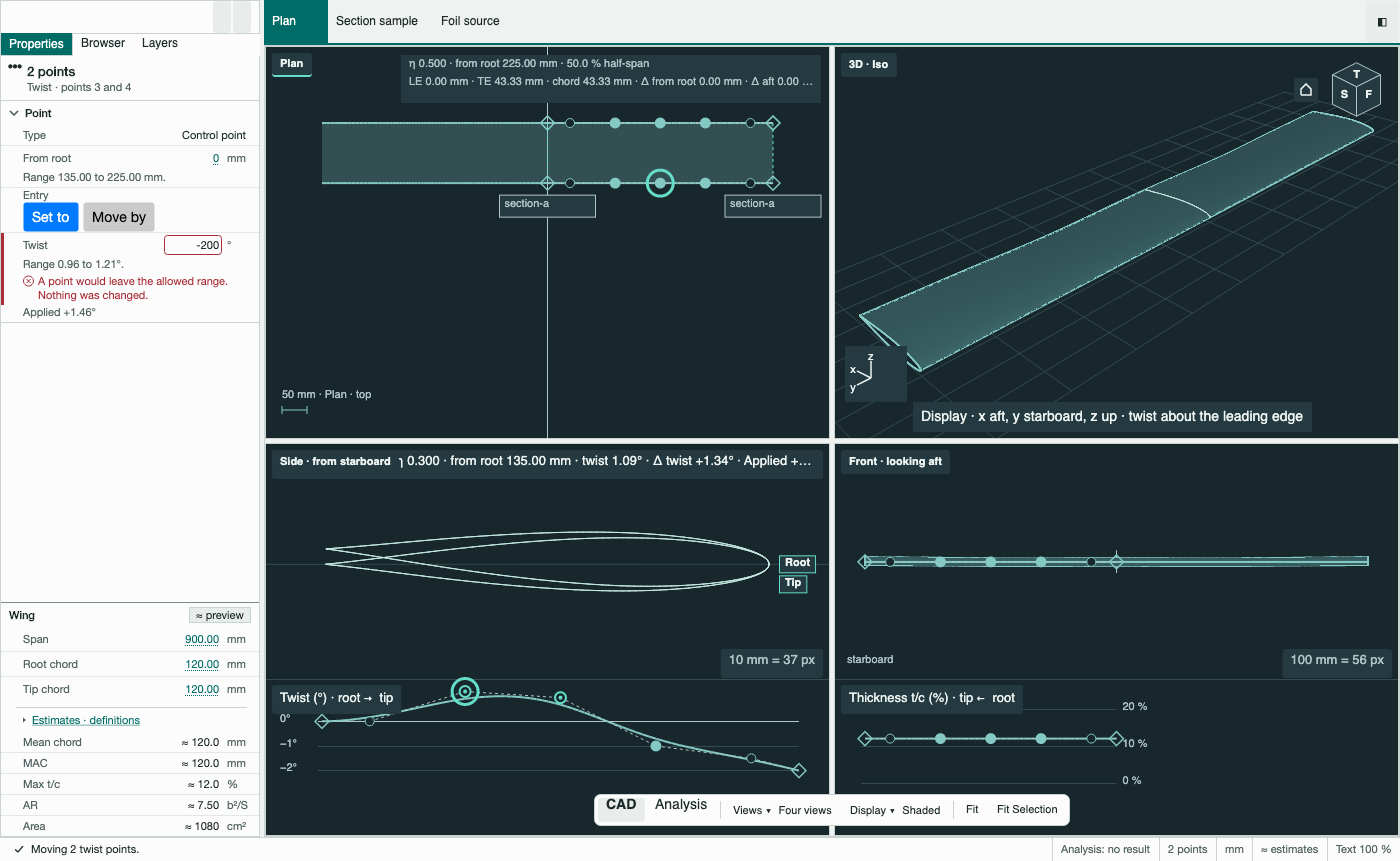
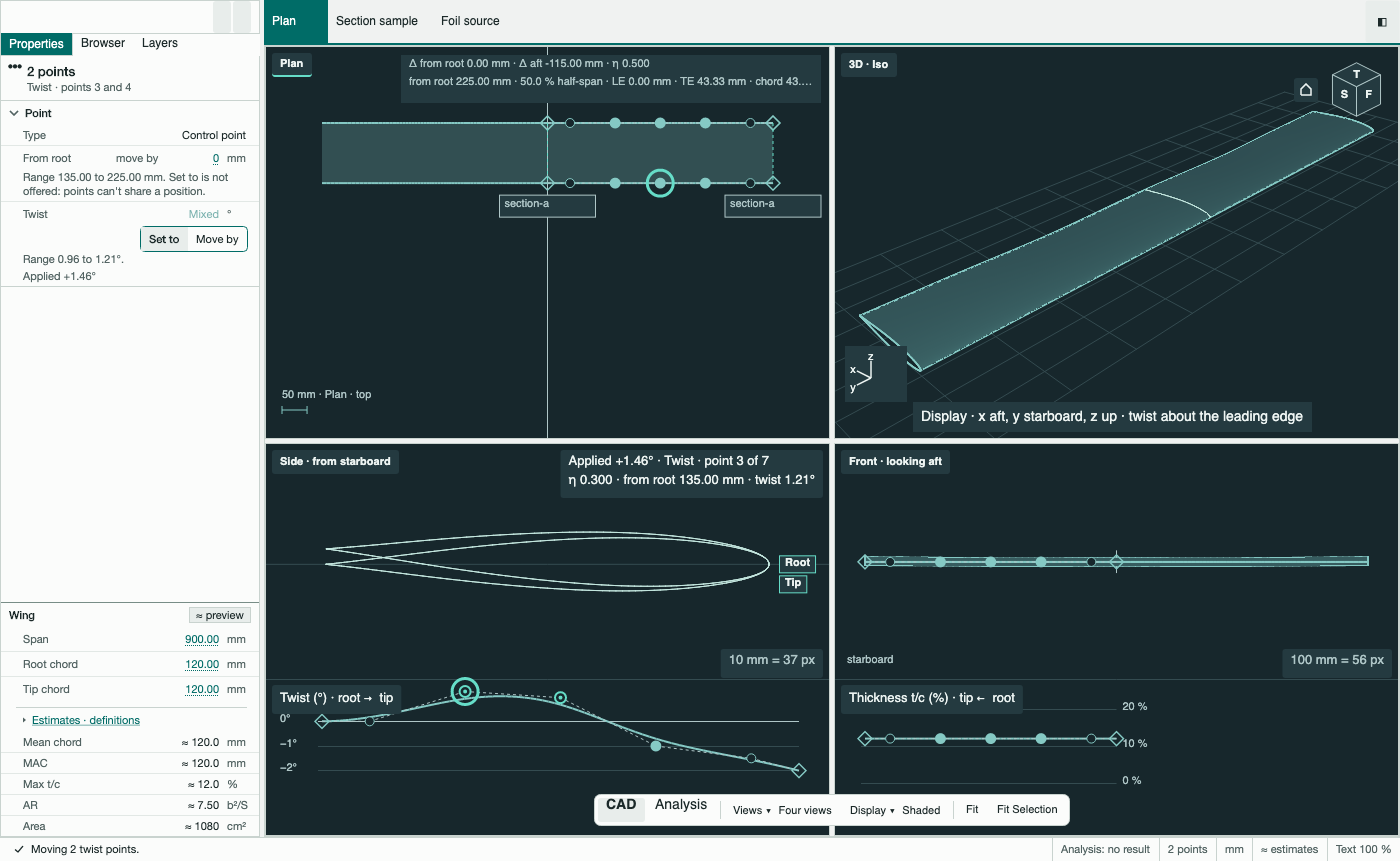
feat(desktop): compact inline Set to | Move by switch in the group value row; elevation readout wraps clear of the caption chip

Changed region(s): [[0.0, 0.1812, 0.1843, 0.3926], [0.2764, 0.5134, 0.5836, 0.5738], [0.3071, 0.0604, 0.5836, 0.1208]]

diff --git a/src/CfdWorkbench.Desktop/Panes/PropertiesPane.axaml.cs b/src/CfdWorkbench.Desktop/Panes/PropertiesPane.axaml.cs
@@ -623,14 +623,6 @@ public partial class PropertiesPane : UserControl
                 used.Add(KindControl);
                 RenderEnum(kindField, view, row);
                 break;
-            case RowKind.Mode when view.Modes is var (setTo, moveBy):
-                setTo.IsChecked = row.EntryMode == GroupValueMode.SetTo;
-                moveBy.IsChecked = row.EntryMode == GroupValueMode.MoveBy;
-                AutomationProperties.SetName(setTo, "Set to");
-                AutomationProperties.SetName(moveBy, "Move by");
-                AutomationProperties.SetHelpText(setTo, row.AutomationName);
-                AutomationProperties.SetHelpText(moveBy, row.AutomationName);
-                break;
             default:
                 string text = row.Kind == RowKind.Estimate && row.State == RowState.Normal ? "≈ " + row.Value : row.Value;
                 if (view.Value!.Text != text) view.Value.Text = text;
@@ -648,6 +640,7 @@ public partial class PropertiesPane : UserControl
     {
         var box = view.Input!;
         used.Add(box);
+        RenderInline(view, row);
         inputOwners[box] = view;
         box.IsEnabled = true;
         box.IsVisible = true;
@@ -659,6 +652,58 @@ public partial class PropertiesPane : UserControl
         if (invalidText is not null) return;   // keep what the user typed until Escape or the next commit
         if (run?.Box == box) return;            // a field run owns its text
         if (!box.IsKeyboardFocusWithin || !Dirty(box)) SetShown(box, modelText);
+    }
+
+    /// <summary>
+    /// Design §3.6, DR-GM-2 C, as the mockup draws it (group-move-node-m.html, `.seg`): the value row of a group carries an inline
+    /// Set to | Move by switch at row height, a thin outline and the active side lightly filled; the From root row, which allows
+    /// Move by only, carries a "move by" tag. The slot sits in the label column against the field, before it in Tab order.
+    /// </summary>
+    private void RenderInline(RowView view, PropertyRow row)
+    {
+        bool valueRow = row.Group && row.Axis == RowAxis.Value, spanRow = row.Group && row.Axis == RowAxis.Span;
+        if (!valueRow && !spanRow)
+        {
+            if (view.Inline is not null) view.Inline.IsVisible = false;
+            return;
+        }
+        if (view.Inline is null)
+        {
+            var inline = new Border { Name = Part(valueRow ? "GroupSwitch" : "GroupTag", row.Key), HorizontalAlignment = HorizontalAlignment.Right, VerticalAlignment = VerticalAlignment.Center };
+            if (valueRow)
+            {
+                var setTo = new ToggleButton { Name = "GroupModeSetTo", Content = "Set to", Tag = GroupValueMode.SetTo };
+                var moveBy = new ToggleButton { Name = "GroupModeMoveBy", Content = "Move by", Tag = GroupValueMode.MoveBy };
+                foreach (var toggle in new[] { setTo, moveBy })
+                {
+                    toggle.Classes.Add("prop-seg");
+                    toggle.Click += (_, _) => ChooseGroupMode((GroupValueMode)toggle.Tag!);
+                }
+                inline.Classes.Add("prop-seg-box");
+                inline.Child = new StackPanel { Orientation = Orientation.Horizontal, Children = { setTo, moveBy } };
+                view.Modes = (setTo, moveBy);
+            }
+            else
+            {
+                var tag = new TextBlock { Text = GroupCopy.MoveByTag };
+                tag.Classes.Add("prop-unit");
+                AutomationProperties.SetAccessibilityView(tag, AccessibilityView.Raw);   // the field's name says "move all points by"
+                inline.Child = tag;
+            }
+            inline.SizeChanged += (_, change) => { if (change.WidthChanged) Layout(view); };
+            view.Inline = inline;
+            view.Grid.Children.Insert(0, inline);
+        }
+        view.Inline.IsVisible = true;
+        if (view.Modes is var (setToButton, moveByButton))
+        {
+            setToButton.IsChecked = row.EntryMode == GroupValueMode.SetTo;
+            moveByButton.IsChecked = row.EntryMode == GroupValueMode.MoveBy;
+            AutomationProperties.SetName(setToButton, "Set to");
+            AutomationProperties.SetName(moveByButton, "Move by");
+            AutomationProperties.SetHelpText(setToButton, row.Label + " entry mode");
+            AutomationProperties.SetHelpText(moveByButton, row.Label + " entry mode");
+        }
     }
 
     /// <summary>The inline warning icon beside the value (the mockup's state-only row); null hides it.</summary>
@@ -817,20 +862,6 @@ public partial class PropertiesPane : UserControl
                 AutomationProperties.SetAccessibilityView(label, AccessibilityView.Raw);
                 label.Name = "TangentLabel";
                 break;
-            case RowKind.Mode:
-                // Design §3.6, DR-GM-2 C: a two-way switch, Set to | Move by, beside the value row.
-                var setTo = new ToggleButton { Name = "GroupModeSetTo", Content = "Set to", Tag = GroupValueMode.SetTo };
-                var moveBy = new ToggleButton { Name = "GroupModeMoveBy", Content = "Move by", Tag = GroupValueMode.MoveBy };
-                foreach (var toggle in new[] { setTo, moveBy })
-                {
-                    toggle.Classes.Add("prop-b");
-                    toggle.Click += (_, _) => ChooseGroupMode((GroupValueMode)toggle.Tag!);
-                }
-                var modes = new StackPanel { Orientation = Orientation.Horizontal, Spacing = 4, Children = { setTo, moveBy } };
-                view.Modes = (setTo, moveBy);
-                value = modes;
-                AutomationProperties.SetAccessibilityView(label, AccessibilityView.Raw);
-                break;
             default:
                 var text = new TextBlock { Name = ValueName(row.Key) };
                 text.Classes.Add("prop-value");
@@ -851,7 +882,7 @@ public partial class PropertiesPane : UserControl
         }
         view.Cell = value;
         // A wide value (an enum, or words rather than a number) sits right-aligned across the row; the label wraps short of it.
-        view.Wide = row.Kind is RowKind.Choice or RowKind.KindList or RowKind.Mode || row.Kind == RowKind.Fact && row.Unit is null && !row.Dimensionless;
+        view.Wide = row.Kind is RowKind.Choice or RowKind.KindList || row.Kind == RowKind.Fact && row.Unit is null && !row.Dimensionless;
         if (view.Wide)
         {
             value.SizeChanged += (_, _) => Layout(view);
@@ -919,7 +950,24 @@ public partial class PropertiesPane : UserControl
         Grid.SetColumn(view.Unit, 2);
         view.Unit.IsVisible = !dirty && !view.Wide;
         // A wide value reaches into the label column only by what the value and unit columns cannot hold.
-        double reserve = 2 * gap + (view.Wide && !stacked ? Math.Max(0, view.Cell.Bounds.Width - valueWidth - unitWidth) : 0);
+        double inline = view.Inline is { IsVisible: true } slot && !dirty ? slot.Bounds.Width + gap : 0;
+        // The slot shares the label's column; when the label's longest word would not fit beside it ("Thickness" in a narrow
+        // pane), the slot drops to the line under the label, still in this row and right-aligned.
+        bool below = !stacked && inline > 0 && grid.Bounds.Width > 0 && view.Cell.Bounds.Width > 0 &&
+            grid.Bounds.Width - view.Cell.Bounds.Width - unitWidth - 2 * gap < LongestWord(view.Label) + inline;
+        if (view.Inline is { } place)
+        {
+            // While the text is being typed the label column shrinks to the label; the slot waits (no flicker: it returns on commit).
+            place.Opacity = dirty ? 0 : 1;
+            place.IsHitTestVisible = !dirty;
+            Grid.SetRow(place, stacked || below ? 1 : 0);
+            Grid.SetColumn(place, 0);
+            Grid.SetColumnSpan(place, below ? 3 : 1);
+            if (place.Margin.Right != gap) place.Margin = new Thickness(0, 0, gap, 0);
+            if (below) inline = 0;
+        }
+        if (below) grid.RowDefinitions[1].MinHeight = height;
+        double reserve = 2 * gap + inline + (view.Wide && !stacked ? Math.Max(0, view.Cell.Bounds.Width - valueWidth - unitWidth) : 0);
         var margin = new Thickness(0, 0, stacked ? 0 : reserve, 0);
         if (view.Label.Margin != margin) view.Label.Margin = margin;
     }
@@ -2142,7 +2190,8 @@ public partial class PropertiesPane : UserControl
         public TextBox? Input { get; set; }
         public ComboBox? Enum { get; set; }
         public HyperlinkButton? Link { get; set; }
-        public (ToggleButton SetTo, ToggleButton MoveBy)? Modes { get; set; }
+        public (ToggleButton SetTo, ToggleButton MoveBy)? Modes { get; set; }   // the group value row's inline Set to | Move by switch
+        public Border? Inline { get; set; }            // the group rows' inline slot beside the field: the switch (value row) or the "move by" tag (From root)
         public InputElement? Editor => (InputElement?)Input ?? (InputElement?)Enum ?? Link;
         public required PropertyRow Row { get; set; }
     }

diff --git a/tests/CfdWorkbench.Desktop.Tests/GroupDragTests.cs b/tests/CfdWorkbench.Desktop.Tests/GroupDragTests.cs
@@ -367,6 +367,18 @@ public static class GroupDragTests
             for (int step = 1; step <= 12; step++) rig.Move(rig.Side, drag, at + new Vector(0, -3 * step));
             Capture(rig, rig.Window, "drag-elevation-twist");
             rig.Release(rig.Side, drag, at + new Vector(0, -36));
+            c.Undo();
+            // A twist domain hold: both points at 56°, dragged past the 57.30° limit.
+            c.Select(new Selection.Points(free.Select(point => new PointRef("twist", point.Id)).ToArray()));
+            var setup = c.ApplyGroupValueAsync(GroupValueMode.SetTo, GroupValueAxis.Value, 56);
+            Pump(setup);
+            rig.Settle();
+            free = free.Select(point => c.CurveFor("twist")!.Points.First(item => item.Id == point.Id)).ToArray();
+            at = rig.Side.ScreenPoint(free[0]);
+            drag = rig.Press(rig.Side, at);
+            for (int step = 1; step <= 30; step++) rig.Move(rig.Side, drag, at + new Vector(0, -step * 4));
+            Capture(rig, rig.Window, "hold-twist-domain");
+            rig.Release(rig.Side, drag, at + new Vector(0, -120));
         });
         Check("Properties_MultiplePoints_SharedValueShown_MixedWhereDiffer", rig =>
         {
@@ -386,8 +398,34 @@ public static class GroupDragTests
             aft = Aft(rig);
             Require(aft.Text == "" && aft.Watermark == "Mixed", $"mixed: '{aft.Text}' / {aft.Watermark}");
             Require(Msg(rig, "Description_p_aft") == "Range 120.00 to 126.00 mm.", "range: " + Msg(rig, "Description_p_aft"));
-            Require(Msg(rig, "Description_p_from") == "Range 135.00 to 315.00 mm.", "span range: " + Msg(rig, "Description_p_from"));
+            Require(Msg(rig, "Description_p_from") == "Range 135.00 to 315.00 mm. " + GroupCopy.SetToNotOffered, "span range: " + Msg(rig, "Description_p_from"));
             Require(PropertiesViewTests.Need<TextBox>(rig.Host.Properties, "PointSpanInput").IsEnabled, "From root is not editable");
+        });
+        Check("Properties_MultiplePoints_EntrySwitch_InlineInTheValueRow_FromRootCarriesMoveByTag_KeyboardWorks", rig =>
+        {
+            // Repair 4 (operator, 2026-10-06): the compact segmented switch of the mockup, in the value row, at row height.
+            var c = rig.Controller;
+            Pick(c, "trailing", 2, 3, 4);
+            rig.Settle();
+            var props = rig.Host.Properties;
+            Require(!props.GetVisualDescendants().OfType<Control>().Any(control => control.Name == "Label_p_mode"), "the separate Entry row is still there");
+            var setTo = PropertiesViewTests.Need<ToggleButton>(props, "GroupModeSetTo");
+            var moveBy = PropertiesViewTests.Need<ToggleButton>(props, "GroupModeMoveBy");
+            var valueRow = PropertiesViewTests.Need<Border>(props, "Row_p_aft");
+            Require(setTo.GetVisualAncestors().Contains(valueRow) && moveBy.GetVisualAncestors().Contains(valueRow), "the switch is not inside the value row");
+            Require(Math.Abs(setTo.Bounds.Height - 24) <= 3 && Math.Abs(moveBy.Bounds.Height - 24) <= 3, $"the switch is {setTo.Bounds.Height:F1} px high, not row height");
+            var box = setTo.GetVisualParent()!.GetVisualParent() as Border;
+            Require(box is { BorderThickness.Left: > 0 and <= 1.5 }, "the switch has no thin outline");
+            Require(PropertiesViewTests.Need<TextBlock>(props, "Unit_p_aft") is not null, "fixture");
+            var tag = props.GetVisualDescendants().OfType<TextBlock>().FirstOrDefault(text => text.IsVisible && text.Text == GroupCopy.MoveByTag);
+            Require(tag is not null && PropertiesViewTests.Need<Border>(props, "Row_p_from").IsVisible && tag.GetVisualAncestors().Contains(PropertiesViewTests.Need<Border>(props, "Row_p_from")), "From root has no 'move by' tag");
+            // Keyboard: focus the Move by side and press Space; the mode follows.
+            moveBy.Focus();
+            rig.Key(moveBy, Avalonia.Input.Key.Space);
+            rig.Key(moveBy, Avalonia.Input.Key.Space, up: true);
+            rig.Settle();
+            Capture(rig, props, "entry-switch");
+            Require(PropertiesViewTests.Need<ToggleButton>(props, "GroupModeMoveBy").IsChecked == true, "Space on Move by did not choose it");
         });
         Check("Properties_MultiplePoints_TypedSetTo_OneUndoStep", rig =>
         {

diff --git a/src/CfdWorkbench.Desktop/PropertiesView.cs b/src/CfdWorkbench.Desktop/PropertiesView.cs
@@ -23,7 +23,7 @@ public enum Mode
 
 // The property grid's model (docs/reviews/ui-property-grid.md §10.1): one row type, filled per selection.
 public enum IdentityGlyph { Foil, Control, Anchor, End, Handle, Several, Station }
-public enum RowKind { Input, Fact, Estimate, Choice, KindList, Action, Mode }
+public enum RowKind { Input, Fact, Estimate, Choice, KindList, Action }
 public enum UnitFamily { None, Length, Angle, Percent }
 public enum RowState { Normal, Warning, Error, Unavailable, Mixed, Locked }
 public enum MessageKind { Report, Echo, Warning, Error, Reason, Info }
@@ -63,7 +63,7 @@ public sealed record PropertyRow
     public PointRef? Target { get; init; }                     // the point an input or Kind list edits
     public RowAxis Axis { get; init; }                         // what a point or handle input moves (None elsewhere)
     public bool Group { get; init; }                           // a typed value of several points on one curve (design group-move §3.6)
-    public GroupValueMode EntryMode { get; init; }             // Group rows: Set to or Move by; on a Mode row, the one chosen
+    public GroupValueMode EntryMode { get; init; }             // Group rows: Set to or Move by; the value row's inline switch shows the one chosen
     public string? Placeholder { get; init; }                  // the text a Group field shows while empty ("Mixed", "0")
 
     public bool IsEditable => Kind is RowKind.Input or RowKind.Choice or RowKind.KindList;
@@ -280,6 +280,10 @@ public static class GroupCopy
         ["G12"] = "Moved <n> points by <value> in <axis>.",
         ["G13"] = "Point <n> would leave its allowed range (<min> to <max> <unit>)."   // COPY-394, approved - Ruling 119
     };
+
+    /// <summary>The From root row's hint and tag, as the approved mockup draws them (group-move-node-m.html, option C); the row allows Move by only.</summary>
+    public const string SetToNotOffered = "Set to is not offered: points can't share a position.";
+    public const string MoveByTag = "move by";
 
     public static string Text(string id, params (string Token, string Value)[] tokens)
     {
@@ -808,11 +812,7 @@ public static class PropertiesView
             {
                 Key = "p:from", Label = "From root", Kind = RowKind.Input, Unit = "mm", Family = UnitFamily.Length, Value = "0", Placeholder = "0",
                 AutomationName = "From root, move all points by", Target = target, Axis = RowAxis.Span, Group = true,
-                EntryMode = GroupValueMode.MoveBy, Description = spanRange, DescriptionAlwaysVisible = true
-            },
-            new PropertyRow
-            {
-                Key = "p:mode", Label = "Entry", Kind = RowKind.Mode, Group = true, EntryMode = mode, AutomationName = curve.ValueLabel + " entry mode"
+                EntryMode = GroupValueMode.MoveBy, Description = spanRange + " " + GroupCopy.SetToNotOffered, DescriptionAlwaysVisible = true
             },
             new PropertyRow
             {

diff --git a/src/CfdWorkbench.Desktop/ElevationView.cs b/src/CfdWorkbench.Desktop/ElevationView.cs
@@ -60,6 +60,7 @@ public sealed class ElevationView : Control
     /// <summary>Below this width the probe wraps to two lines, at most this share of the view wide (§11.1, the mockup's 560 px).</summary>
     public const double ProbeWrapWidth = 560;
     public const double ProbeWrapShare = 0.46;
+    private const double CaptionReserve = 150;   // the shell's view-caption chip ("Side · from starboard") over the band's left edge
     private const double PlateFont = 13;
     private const double ChipFont = 11;
     private const double TickFont = 11;
@@ -566,7 +567,11 @@ public sealed class ElevationView : Control
 
     private (string[] Lines, Rect Box) ProbeLayout(string text)
     {
-        bool wrap = Bounds.Width < ProbeWrapWidth;
+        bool narrow = Bounds.Width < ProbeWrapWidth;
+        // The view's caption chip sits over the left of the band: a long readout (a group drag's applied move, hold and reason)
+        // wraps to two lines instead of running under the chip, so its first words (the applied value) stay readable.
+        double room = Bounds.Width - 2 * PlateInset - CaptionReserve;
+        bool wrap = narrow || TextWidth(text, PlateFont) + 2 * PlatePadX > room;
         string[] lines = [text];
         if (wrap)
         {
@@ -574,7 +579,7 @@ public sealed class ElevationView : Control
             int half = (pieces.Length + 1) / 2;
             lines = pieces.Length > 1 ? [string.Join(" · ", pieces.Take(half)), string.Join(" · ", pieces.Skip(half))] : [text];
         }
-        double maxWidth = wrap ? Bounds.Width * ProbeWrapShare : Bounds.Width - 2 * PlateInset;
+        double maxWidth = narrow ? Bounds.Width * ProbeWrapShare : wrap ? room : Bounds.Width - 2 * PlateInset;
         double width = Math.Min(maxWidth, lines.Max(line => TextWidth(line, PlateFont)) + 2 * PlatePadX);
         double height = lines.Length * LineHeight(PlateFont) + 2 * PlatePadY;
         return (lines, new Rect(Bounds.Width - PlateInset - width, PlateInset, width, height));

diff --git a/src/CfdWorkbench.Desktop/PlanCanvas.cs b/src/CfdWorkbench.Desktop/PlanCanvas.cs
@@ -689,7 +689,12 @@ public sealed class PlanCanvas : Control
         {
             targets.Add(point);
         }
-        if (Controller!.Gesture != GestureState.Dragging) { gesturePointer = null; probeTarget = null; }
+        if (Controller!.Gesture != GestureState.Dragging)
+        {
+            gesturePointer = null;
+            if (probeTarget is not null && Controller.Gesture == GestureState.Idle) ProbeText = probeBase;   // the gesture ended: the Δ readout does not outlive it
+            probeTarget = null;
+        }
         else ApplyGestureProbe();
         // D-2: the marker mirrors the controller's preview of the release check, at the offending hull point.
         advisoryCrossing = Controller!.GestureCrossing is not null;

diff --git a/docs/proof/grp-desktop/red-first.md b/docs/proof/grp-desktop/red-first.md
@@ -41,4 +41,5 @@ Method: `git stash push -- src`, build, run the check (`--readiness`, `CFD_TEST_
 | 3 twist domain hold names the point | `GroupDrag_Elevation_TwistDomainHold_NamesThePointAndTheReason` | `FAIL ... no domain binder:  probe=Twist · point 3 of 7 ... · Δ twist +1.30° · Twist is limited to ±57.30° ...` | `PASS` |
 | 2, 8 typed amounts carry unit and 2 decimals, G10 names "point n" | Core `ApplyGroupValue_TwistSpanMoveBy_NamesTheUnitAndThePointNumber_UseAmountIsAdmitted` (`--` default Core ring) | `FAIL ... Moving these points by 0.2 would pass point cv-4. The most they can move that way is 0.089.` | `PASS`; window check `Properties_MultiplePoints_TwistMoveBySpan_RefusalHasUnitAndPointNumber_UseEqualsTheAllowedAmount` `PASS` (Use offer equals the message's amount; the amount named is cut, not rounded, so it is admitted) |
 | 7 stale refusal cleared when a gesture starts (stale-clear block disabled with `if (false && ...)`) | `Properties_MultiplePoints_TwistRangeRefusal_NamesPointAndRange_ClearsWhenADragStarts` | `FAIL ... the refused text stayed in the row during a drag: -200` | `PASS` (also asserts the range refusal reads COPY-394 through `GroupCopy` "G13"; Core `ApplyGroupValue_TwistSetToOutOfDomain_ReportsThePointAndTheRangeAsData` `PASS`) |
+| 4 compact inline Set to / Move by switch in the value row, "move by" tag on From root, no Entry row | `Properties_MultiplePoints_EntrySwitch_InlineInTheValueRow_FromRootCarriesMoveByTag_KeyboardWorks` | Compile-red only on the old src: `GroupCopy.SetToNotOffered` and `MoveByTag` do not exist there (the old build also had the separate `Label_p_mode` row the check forbids). No behavioural red was observed. | `PASS` |
 | 5, 6 applied value first, no one-frame lag | `GroupDrag_Elevation_TwistPointsMoveAsOneGroup_ReadoutShowsTheAppliedMove` | `FAIL ... the readout is 'Twist · point 3 of 7 ... · Applied +0.91°', wanted it to start 'Applied +1.01°'` (one frame behind) | `PASS` |
